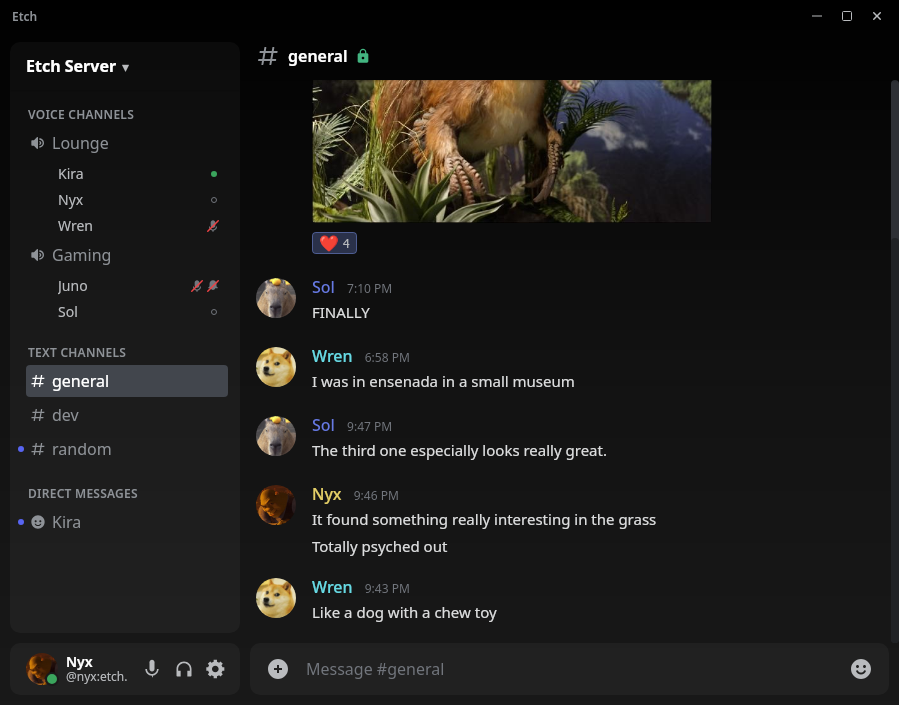
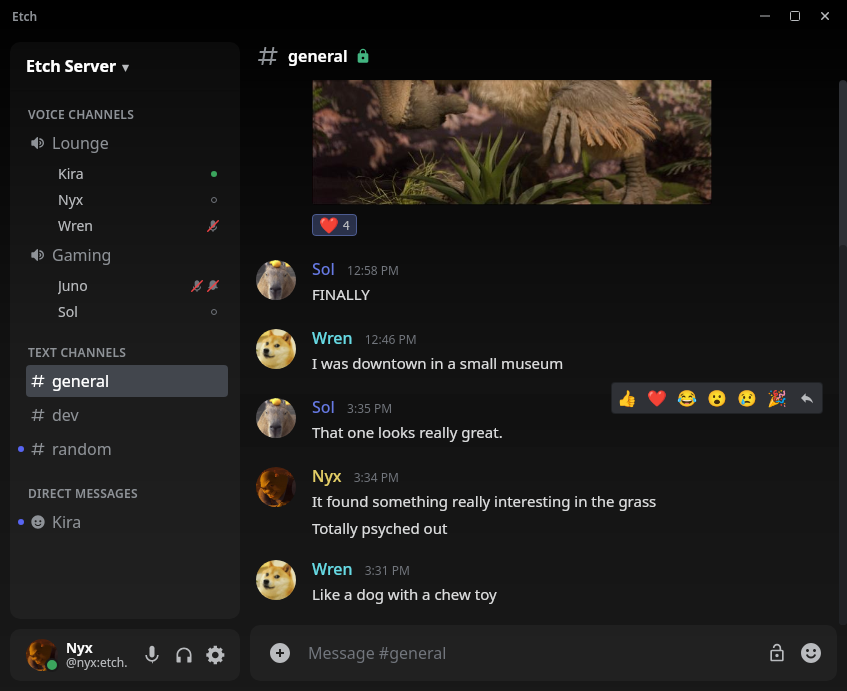
Demo tweaks.

diff --git a/client/etch-gui/src/lib/demoData.ts b/client/etch-gui/src/lib/demoData.ts
@@ -146,16 +146,16 @@ const generalEntries: TimelineEntry[] = [
         media: {
             mxc_url: '/demo_dino.png',
             mimetype: 'image/png',
-            size: 465672,
-            width: 480,
-            height: 320,
+            size: 447679,
+            width: 639,
+            height: 429,
             duration: 0,
         },
         reactions: { '\u{2764}\u{FE0F}': [USER.sol, USER.wren, USER.juno, USER.self] },
     }),
     msg(USER.sol, PROFILE.sol, 'FINALLY', t(NOW, -5, 22)),
-    msg(USER.wren, PROFILE.wren, 'I was in ensenada in a small museum', t(NOW, -5, 10)),
-    msg(USER.sol, PROFILE.sol, 'The third one especially looks really great.', t(NOW, -3, 59)),
+    msg(USER.wren, PROFILE.wren, 'I was downtown in a small museum', t(NOW, -5, 10)),
+    msg(USER.sol, PROFILE.sol, 'That one looks really great.', t(NOW, -3, 59)),
     msg(USER.self, PROFILE.self, 'It found something really interesting in the grass', t(NOW, -3, 58)),
     msg(USER.self, PROFILE.self, 'Totally psyched out', t(NOW, -3, 57)),
     msg(USER.wren, PROFILE.wren, 'Like a dog with a chew toy', t(NOW, -3, 55)),
@@ -169,12 +169,12 @@ const devEntries: TimelineEntry[] = [
     divider(YESTERDAY),
 
     msg(USER.kira, PROFILE.kira, 'anyone tried the new build yet?', t(YESTERDAY, 10)),
-    msg(USER.sol, PROFILE.sol, 'yeah the voice quality is noticeably better', t(YESTERDAY, 10, 2)),
-    msg(USER.wren, PROFILE.wren, 'agreed, latency feels lower too. whatever you changed with the codec is working', t(YESTERDAY, 10, 4)),
+    msg(USER.sol, PROFILE.sol, 'Yeah the voice quality is noticeably better', t(YESTERDAY, 10, 2)),
+    msg(USER.wren, PROFILE.wren, 'Agreed, latency feels lower too. whatever you changed with the codec is working', t(YESTERDAY, 10, 4)),
     msg(USER.kira, PROFILE.kira, 'nice. also pushed a fix for the echo cancellation issue, lmk if it comes back', t(YESTERDAY, 10, 6), {
         reactions: { '\u{1F44D}': [USER.sol, USER.wren, USER.self], '\u{1F389}': [USER.juno] },
     }),
-    msg(USER.self, PROFILE.self, 'just tested it, sounds great on my end', t(YESTERDAY, 10, 12)),
+    msg(USER.self, PROFILE.self, 'Just tested it, sounds great on my end', t(YESTERDAY, 10, 12)),
     msg(USER.juno, PROFILE.juno, 'the UI update looks really clean btw', t(YESTERDAY, 10, 15), {
         reactions: { '\u{2764}\u{FE0F}': [USER.kira, USER.self] },
     }),
@@ -184,7 +184,7 @@ const devEntries: TimelineEntry[] = [
     msg(USER.wren, PROFILE.wren, 'PR is up for the encrypted media fix. turned out the SDK caches the source separately from the event', t(NOW, -4)),
     msg(USER.kira, PROFILE.kira, 'looking at it now', t(NOW, -3, 50)),
     msg(USER.self, PROFILE.self, 'I can review after lunch', t(NOW, -3, 45)),
-    msg(USER.sol, PROFILE.sol, 'also noticed we should debounce the resize observer, it fires a lot during image loads', t(NOW, -2)),
+    msg(USER.sol, PROFILE.sol, 'Also noticed we should debounce the resize observer, it fires a lot during image loads', t(NOW, -2)),
     msg(USER.kira, PROFILE.kira, "we suppress it during pagination already but yeah, general case could use a requestAnimationFrame guard", t(NOW, -1, 50)),
     msg(USER.wren, PROFILE.wren, "I'll add that to the PR", t(NOW, -1, 45), {
         reactions: { '\u{1F44D}': [USER.kira] },
@@ -230,9 +230,9 @@ const dmKiraEntries: TimelineEntry[] = [
 
     msg(USER.kira, PROFILE.kira, 'hey, quick question about the voice reconnect logic', t(NOW, -1, 30)),
     msg(USER.kira, PROFILE.kira, 'when the bridge drops and comes back, are we re-resolving profiles or using cached ones?', t(NOW, -1, 28)),
-    msg(USER.self, PROFILE.self, 'cached. the engine stores credentials from the first connect and reuses them', t(NOW, -1, 25)),
+    msg(USER.self, PROFILE.self, 'Cached. The engine stores credentials from the first connect and reuses them', t(NOW, -1, 25)),
     msg(USER.kira, PROFILE.kira, "ok good, I was worried we'd hit the homeserver again for every user on reconnect", t(NOW, -1, 22)),
-    msg(USER.self, PROFILE.self, "nah, profiles get resolved once on UserJoined and that's it", t(NOW, -1, 20)),
+    msg(USER.self, PROFILE.self, "Nah, profiles get resolved once on UserJoined and that's it", t(NOW, -1, 20)),
     msg(USER.kira, PROFILE.kira, 'perfect, thanks', t(NOW, -1, 18), {
         reactions: { '\u{1F44D}': [USER.self] },
     }),
